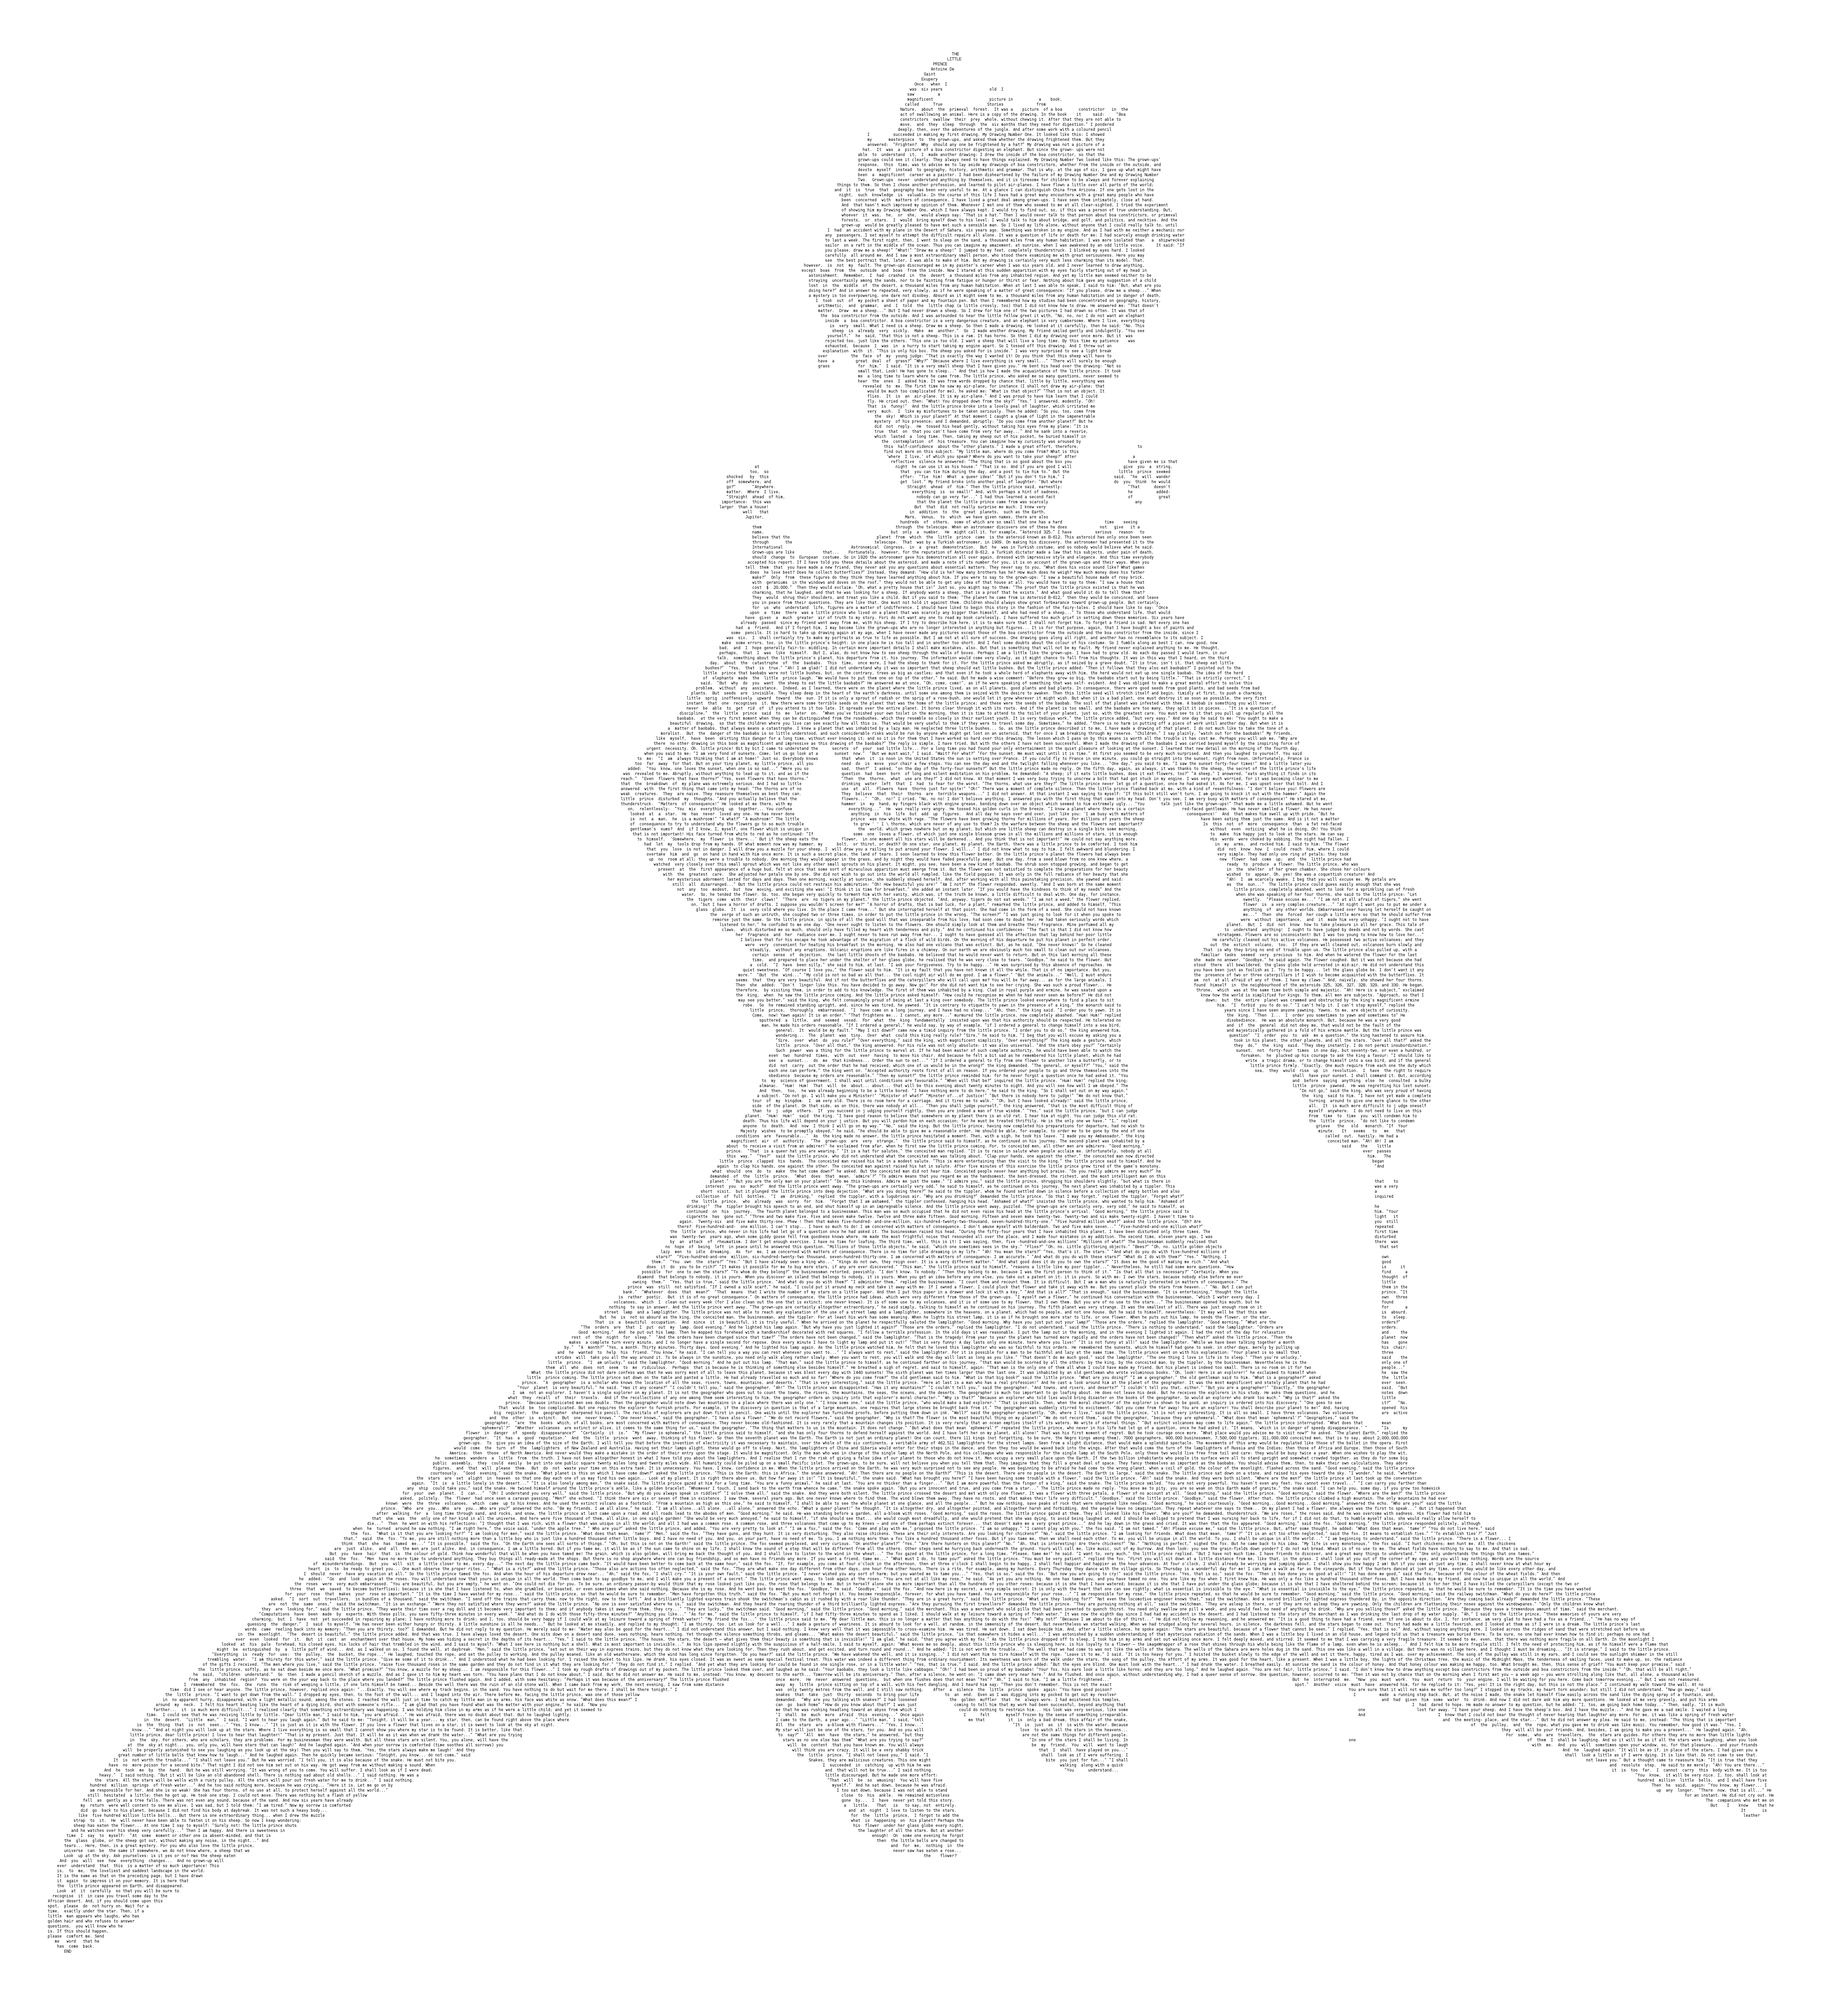
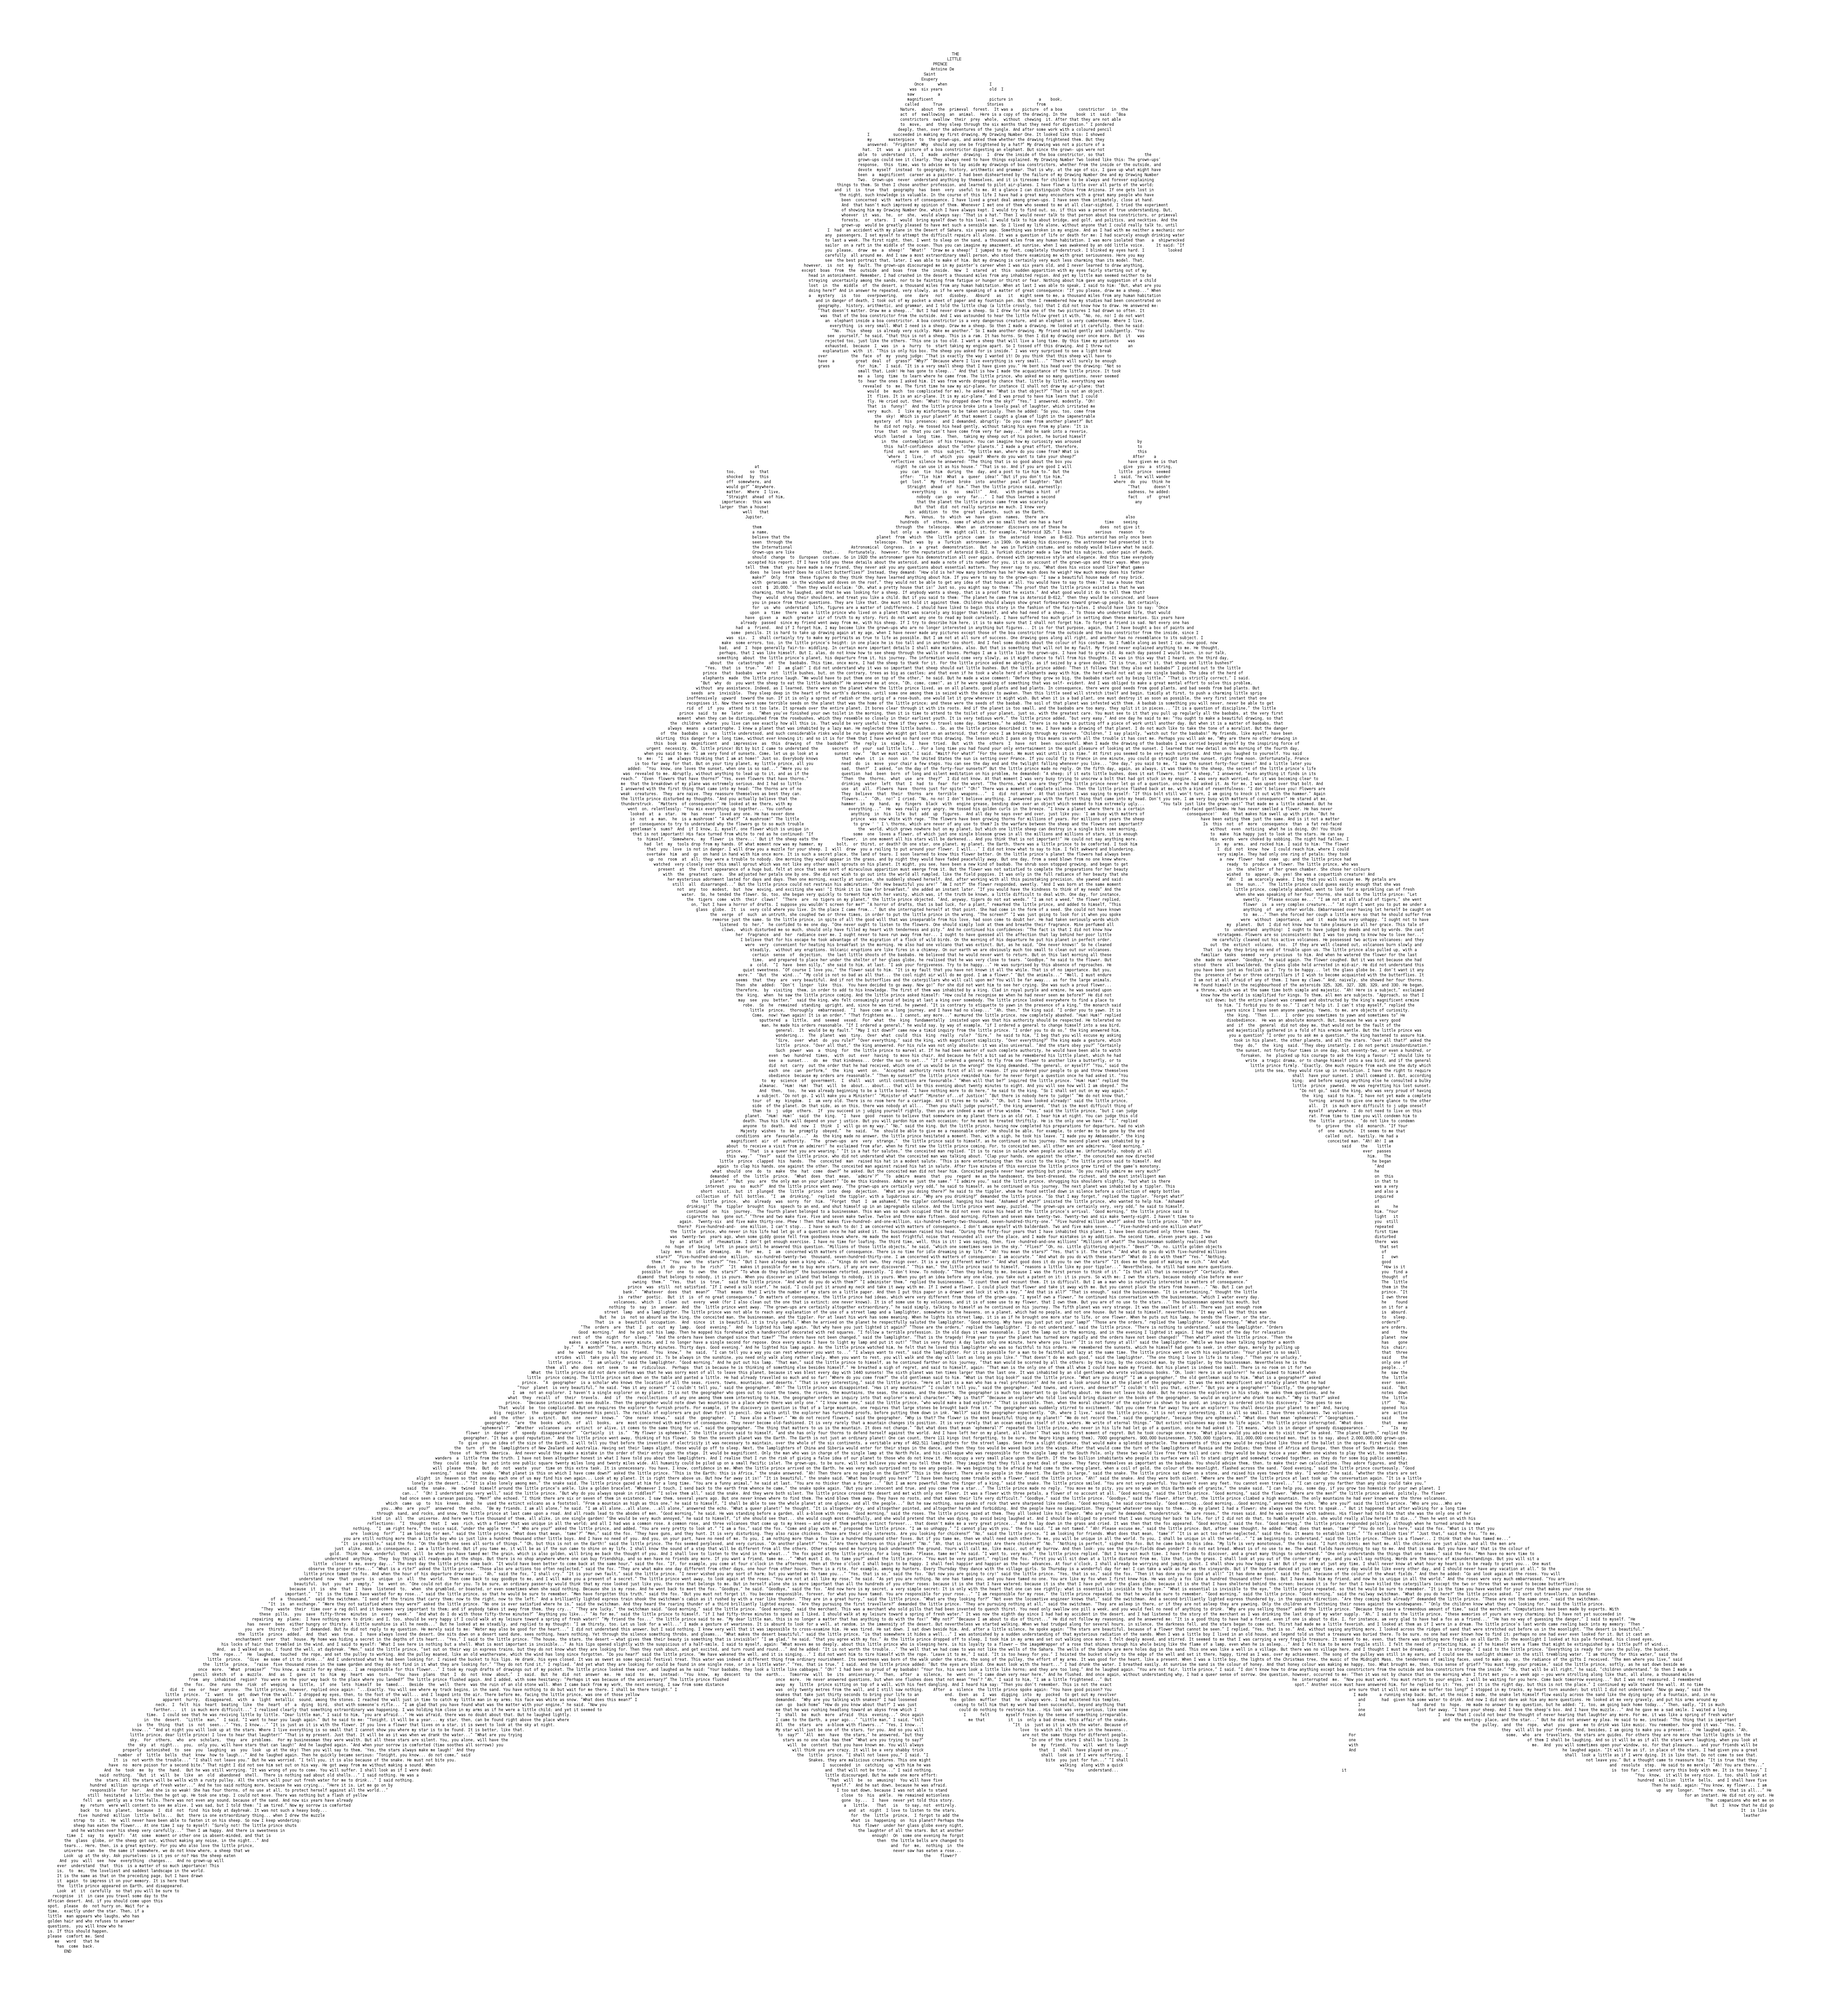
mapper works really well

diff --git a/src/com/github/davidbeesley/asciiart/domain/MappedSequenceList.java b/src/com/github/davidbeesley/asciiart/domain/MappedSequenceList.java
@@ -120,6 +120,52 @@ public class MappedSequenceList {
         return list.get(0).getCapacity() > 0;
     }
 
+    public boolean smoothForward(){
+        boolean smoothed = false;
+        for(int i = 0; i < list.size()-1; i++){
+            if (list.get(i).numWords() == 0){
+                continue;
+            }
+            double score = list.get(i).getDensity() + list.get(i+1).getDensity();
+
+            sendToNext(i);
+
+
+            double modified_score = list.get(i).getDensity() + list.get(i+1).getDensity();
+            if (modified_score > score && list.get(i).valid() && list.get(i+1).valid()){
+                Logger.getInstance().trace("Smoothed forward");
+                smoothed = true;
+            } else {
+                sendToPrevious(i+1);
+
+            }
+        }
+        return smoothed;
+    }
+
+    public boolean smoothBackward(){
+        boolean smoothed = false;
+        for(int i = list.size()-1; i > 0; i--){
+            if (list.get(i).numWords() == 0){
+                continue;
+            }
+            double score = list.get(i).getDensity() + list.get(i-1).getDensity();
+
+            sendToPrevious(i);
+
+
+            double modified_score = list.get(i).getDensity() + list.get(i-1).getDensity();
+            if (modified_score > score && list.get(i).valid() && list.get(i-1).valid()){
+                Logger.getInstance().trace("Smoothed backward");
+                smoothed = true;
+            } else {
+                sendToNext(i-1);
+
+            }
+        }
+        return smoothed;
+    }
+
     public ArrayList<Sequence> getList() {
         return list;
     }

diff --git a/src/com/github/davidbeesley/asciiart/task/TextMapper.java b/src/com/github/davidbeesley/asciiart/task/TextMapper.java
@@ -13,6 +13,11 @@ public class TextMapper {
                 return false;
             }
         }
+        boolean smoothed = true;
+        while (smoothed){
+            smoothed = list.smoothForward() || list.smoothBackward();
+        }
+
         Logger.getInstance().debug("Mapping succeeded");
         return true;
     }

diff --git a/src/com/github/davidbeesley/asciiart/domain/Sequence.java b/src/com/github/davidbeesley/asciiart/domain/Sequence.java
@@ -36,6 +36,10 @@ public class Sequence{
     public int getCapacity(){
         return size - getUsed();
     }
+
+    public boolean valid(){
+        return getCapacity() >= 0;
+    }
     public void pushFront(String word){
         assignedWords.addFirst(word);
     }
